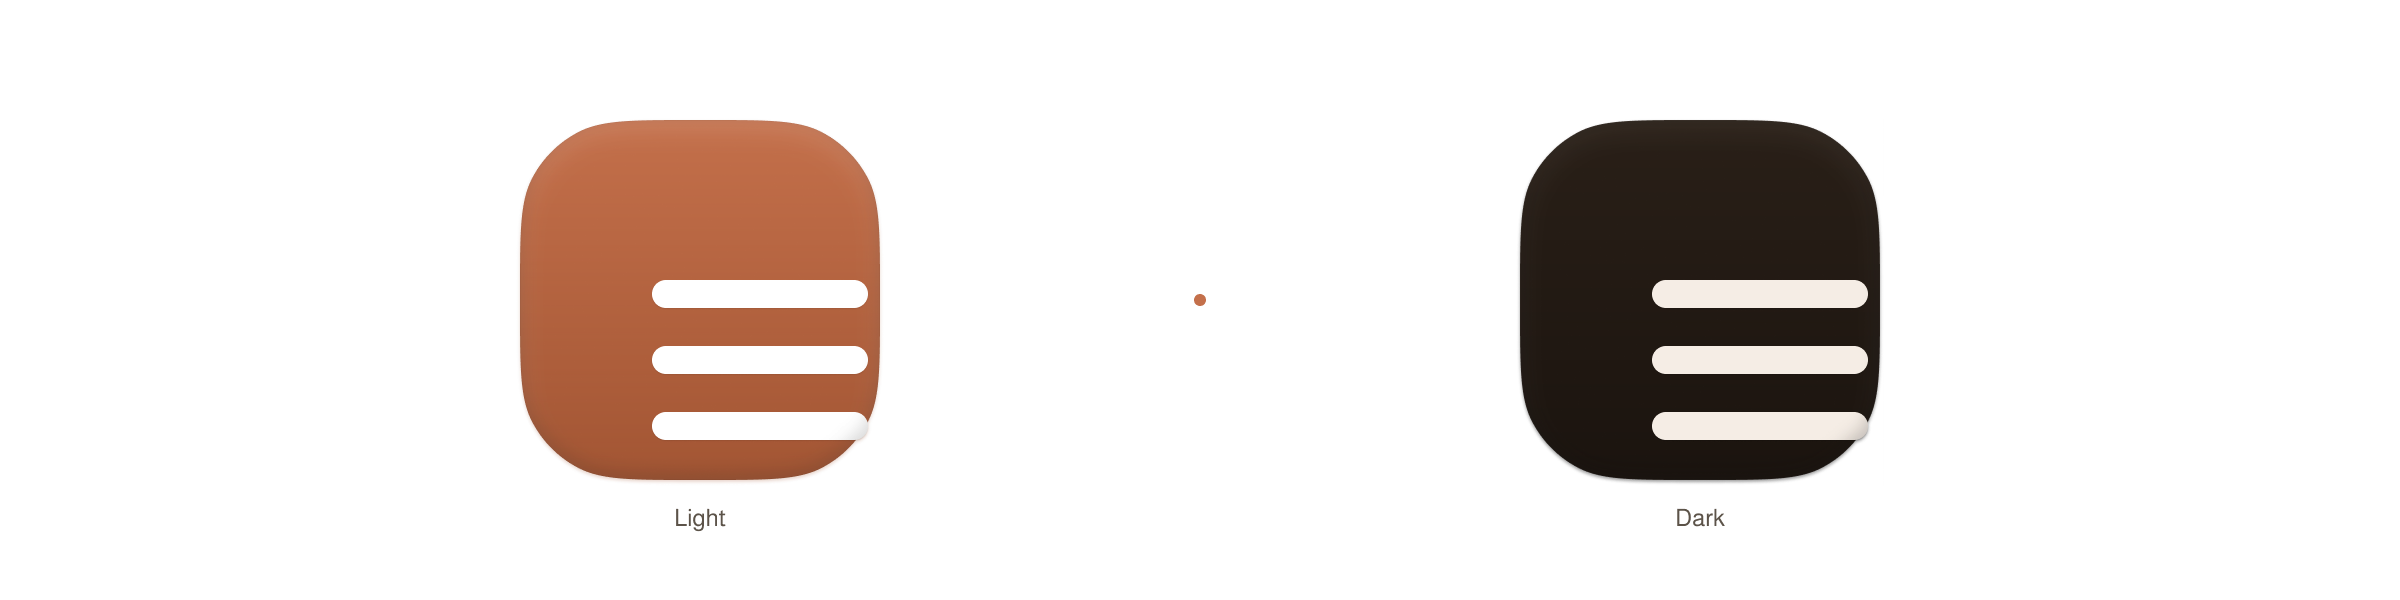
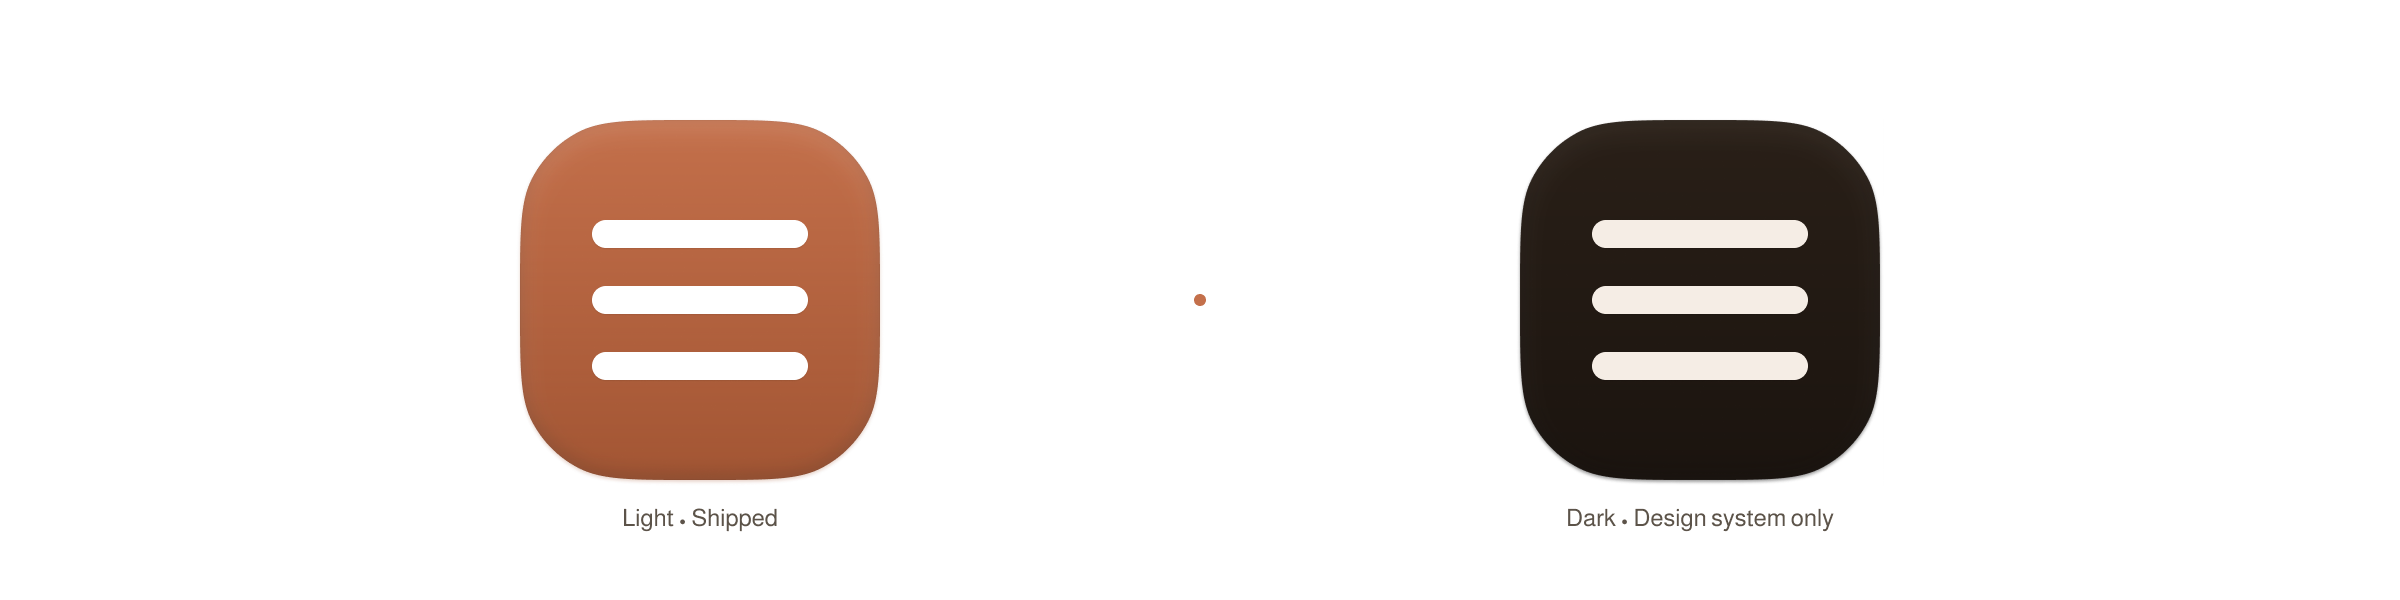
docs: fix README product presentation

diff --git a/README.md b/README.md
@@ -128,7 +128,7 @@
 ## أيقونة التطبيق
 
 <div align="center">
-<img src="docs/assets/raff-icon-showcase.png" alt="أيقونة رفّ — فاتح وداكن" width="100%">
+<img src="docs/assets/raff-icon-showcase.png" alt="أيقونة رفّ — الفاتحة هي المشحونة، والداكنة مرجع في نظام الهوية" width="100%">
 </div>
 
 أيقونة رفّ التي تراها في Finder وDock وDMG هي **النسخة الفاتحة دائمًا**، بصرف
